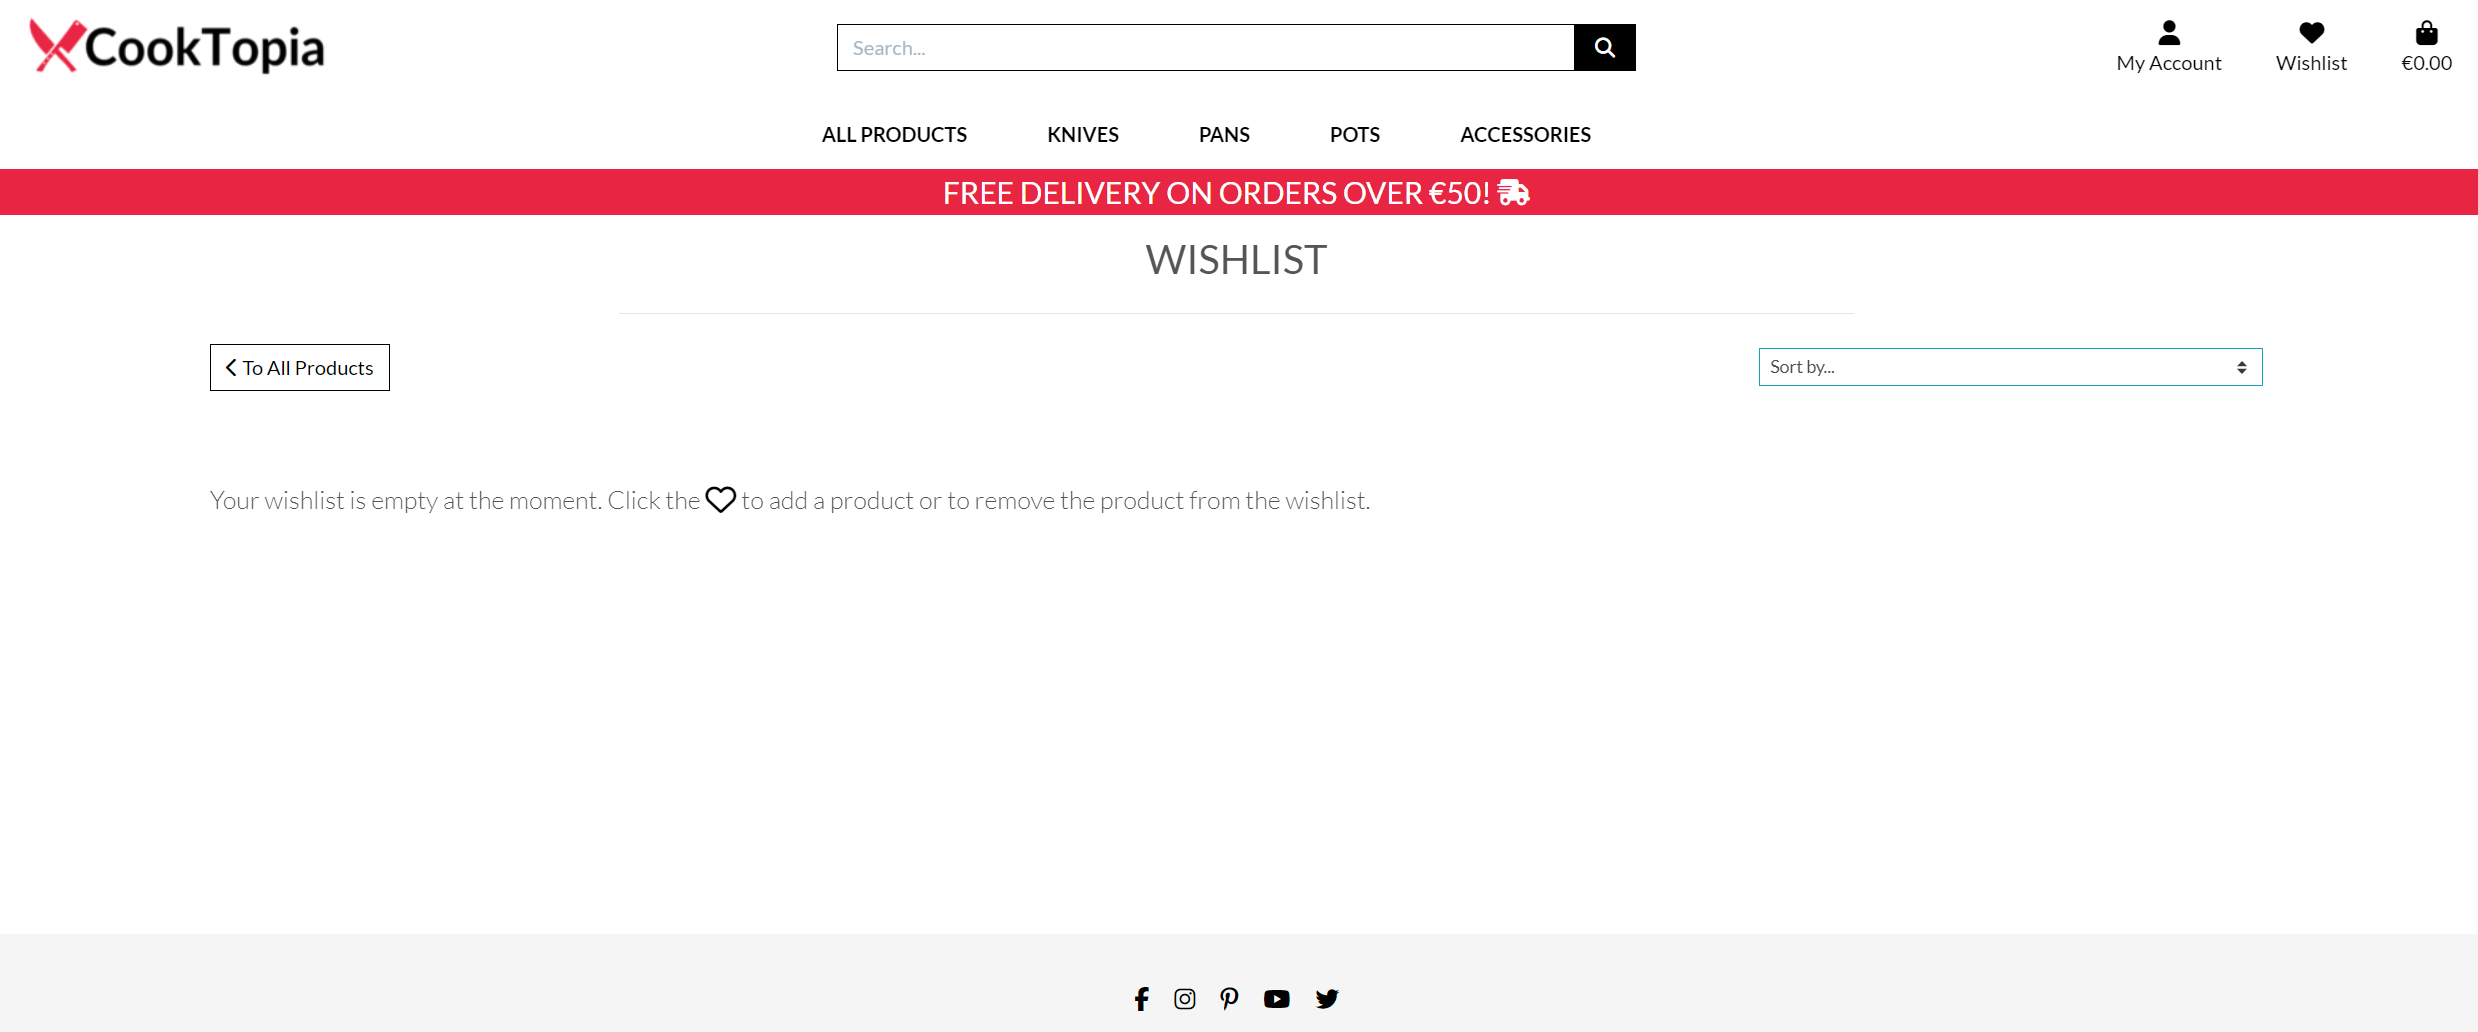
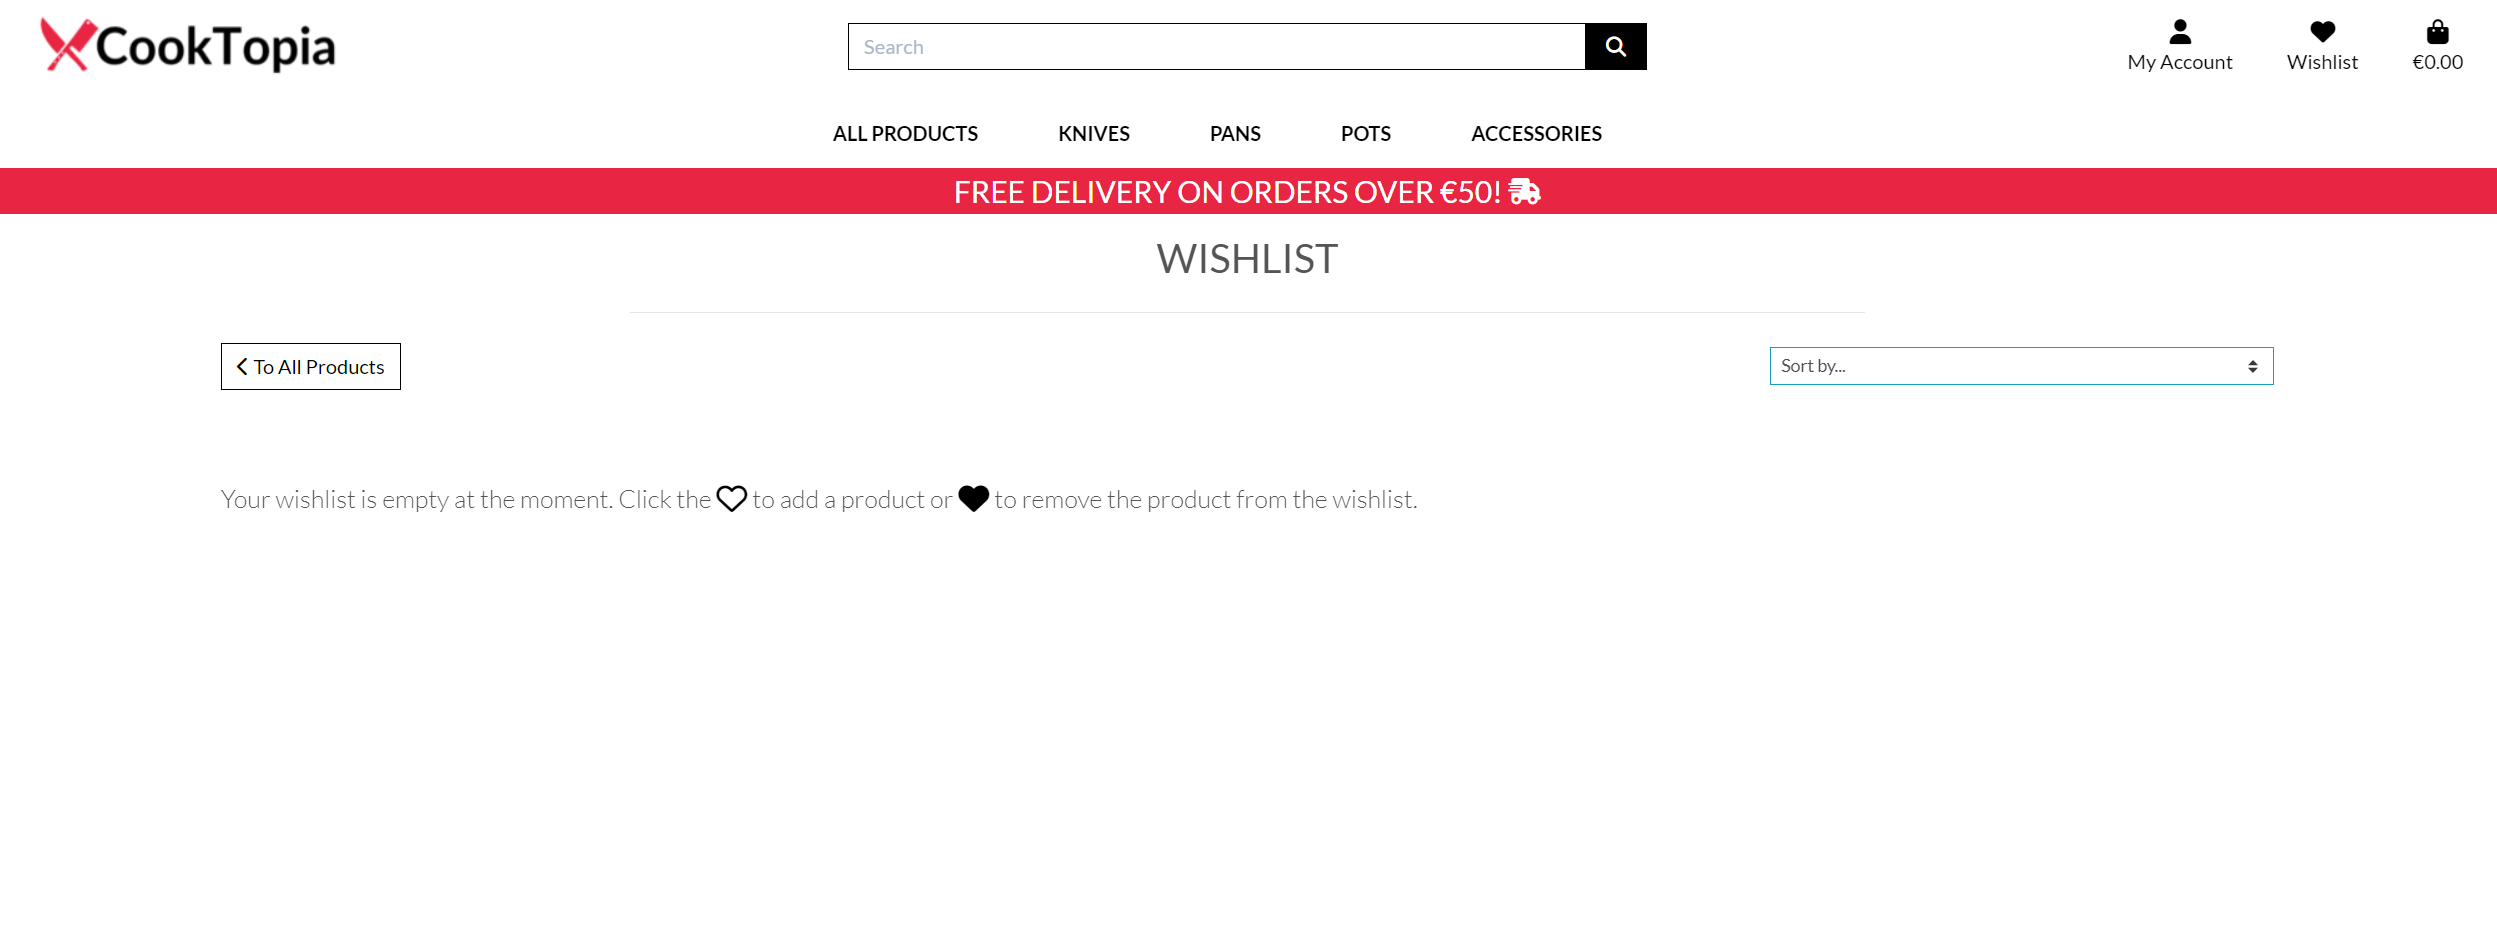
add content to fixed bugs section of readme file

diff --git a/static/css/base.css b/static/css/base.css
@@ -72,12 +72,12 @@ body {
 .btn-black:focus {
     background: gray;
     color: white;
-    transition:0.5s;
+    transition: 0.5s;
 }
 
 .btn-gray:hover {
-    color:gray !important;
-    transition:0.5s;
+    color: gray !important;
+    transition: 0.5s;
 }
 
 .text-black {
@@ -93,7 +93,7 @@ body {
 }
 
 .bag-state {
-    color: #28a745!important;
+    color: #28a745 !important;
 }
 
 .overlay {
@@ -106,7 +106,7 @@ body {
     z-index: -1;
 }
 
-a.category-badge > span.badge:hover {
+a.category-badge>span.badge:hover {
     background: #e82543 !important;
     color: #fff !important;
     transition: 0.5s;
@@ -195,8 +195,10 @@ input[name='q']::placeholder {
 /* Allauth form formatting */
 
 .allauth-form-inner-content p {
-    margin-top: 1.5rem; /* mt-4 */
-    color: #6c757d; /* text-secondary */
+    margin-top: 1.5rem;
+    /* mt-4 */
+    color: #6c757d;
+    /* text-secondary */
 }
 
 .allauth-form-inner-content input {
@@ -214,8 +216,8 @@ input[name='q']::placeholder {
 
 .allauth-form-inner-content button,
 .allauth-form-inner-content input[type='submit'] {
-	/* btn */
-	display: inline-block;
+    /* btn */
+    display: inline-block;
     font-weight: 400;
     color: #fff;
     text-align: center;
@@ -232,18 +234,19 @@ input[name='q']::placeholder {
     border-radius: 0;
 
     /* standard bootstrap btn transitions */
-    transition: color .15s ease-in-out,background-color .15s ease-in-out,border-color .15s ease-in-out,box-shadow .15s ease-in-out;
+    transition: color .15s ease-in-out, background-color .15s ease-in-out, border-color .15s ease-in-out, box-shadow .15s ease-in-out;
 }
 
 .allauth-form-inner-content button:hover,
-.allauth-form-inner-content input[type='submit']:hover {	
-	color: #fff;
+.allauth-form-inner-content input[type='submit']:hover {
+    color: #fff;
     background-color: #222;
     border-color: #222;
 }
 
 .allauth-form-inner-content a {
-	color: #17a2b8; /* text-info */
+    color: #17a2b8;
+    /* text-info */
 }
 
 
@@ -284,7 +287,7 @@ input[name='q']::placeholder {
     border-top: 1px solid black;
 }
 
-.no-underline:hover{
+.no-underline:hover {
     text-decoration: none;
 }
 
@@ -293,7 +296,7 @@ input[name='q']::placeholder {
     background: white;
     clear: left;
     font: 14px Lato, sans-serif;
-  }
+}
 
 /* No content footer fixing */
 .wishlist-container,
@@ -312,57 +315,58 @@ input[name='q']::placeholder {
 
 .footer {
     background: whitesmoke;
-    padding:10px 0px;
-    text-align:center;
+    padding: 10px 0px;
+    text-align: center;
     margin-top: auto;
 }
-    
-.footer .row{
-    width:100%;
-    margin:1% 0%;
-    padding:0.6% 0%;
-    color:black;
-    font-size:0.8em;
+
+.footer .row {
+    width: 100%;
+    margin: 1% 0%;
+    padding: 0.6% 0%;
+    color: black;
+    font-size: 0.8em;
     justify-content: center;
     gap: 20px;
 }
-    
-.footer .row a{
-    text-decoration:none;
-    color:black;
-    transition:0.5s;
+
+.footer .row a {
+    text-decoration: none;
+    color: black;
+    transition: 0.5s;
 }
-    
-.footer .row a:hover{
-    color:gray;
+
+.footer .row a:hover {
+    color: gray;
     text-decoration: underline;
 }
-    
-.footer .row ul{
-    width:100%;
+
+.footer .row ul {
+    width: 100%;
 }
-    
-.footer .row ul li{
-    display:inline-block;
-    margin:0px 30px;
+
+.footer .row ul li {
+    display: inline-block;
+    margin: 0px 30px;
 }
-    
-.footer .row a i{
-    font-size:1.5em;
-    margin:0% 1%;
+
+.footer .row a i {
+    font-size: 1.5em;
+    margin: 0% 1%;
 }
-    
+
 
 /* -------------------------------- Media Queries */
 
 /* Slightly larger container on xl screens */
 @media (min-width: 1200px) {
-  .container {
-    max-width: 80%;
-  }
+    .container {
+        max-width: 80%;
+    }
 }
 
 @media (min-width: 992px) {
+
     /* fixed top navbar only on medium and up */
     .fixed-top-desktop-only {
         position: fixed;
@@ -426,36 +430,40 @@ input[name='q']::placeholder {
         padding-right: 5px;
     }
 
-    .increment-qty, .decrement-qty {
+    .increment-qty,
+    .decrement-qty {
         padding: .25rem .5rem !important;
     }
 }
 
 
-@media (max-width:720px){
+@media (max-width:720px) {
+
     /* Keep Shoping and Secure Checkout buttons */
     .btn-keep {
         padding-right: 4px !important;
         padding-left: 0px !important;
     }
-    
+
     .btn-secure {
         padding-left: 4px !important;
         padding-right: 0px !important;
     }
 
     /* footer styles */
-    .footer{
-        text-align:left;
-        padding:5%;
+    .footer {
+        text-align: left;
+        padding: 5%;
     }
-    .footer .row ul li{
-        display:block;
-        margin:10px 0px;
-        text-align:left;
+
+    .footer .row ul li {
+        display: block;
+        margin: 10px 0px;
+        text-align: left;
     }
-    .footer .row a i{
-        margin:0% 3%;
+
+    .footer .row a i {
+        margin: 0% 3%;
     }
 }
 

diff --git a/README.md b/README.md
@@ -398,11 +398,11 @@ The custom models made for this project were:
 - Navbar is fully responsive. Here we can find:
   - Logo, which acts as a Home button
   - Search Bar
-  - My Account Icon
-  - Wishlist Icon
-  - Shopping Bag Icon, with total amount under it
+  - My Account, with Icon for bigger screens
+  - Wishlist, with Icon for bigger screens
+  - Shopping Bag Icon, with the total amount under it
   - Burger Icon on small and medium screens
-  - Home button for smaller and medium screens
+  - Home button for small and medium screens
 
 [Back to Top](#table-of-contents)
 
@@ -558,7 +558,6 @@ The custom models made for this project were:
   - Edit/Delte Buttons (only for admins)
   - Add To Bag button
   - Quantity Button
-  - Heart Icon, acting as add to wishlist button
 
 ![All Products Page Closed Up View](static/images/features/23-closeup-view-allproducts.png)
 
@@ -680,6 +679,8 @@ The custom models made for this project were:
 
 - The sales page could be used to introduce the discount possibilities.
 
+- Add wishlist button to the All Products Page to improve UX.
+
 [Back to Top](#table-of-contents)
 
 ### Business Model
@@ -758,7 +759,7 @@ The custom models made for this project were:
 
 #### Robots.txt
 
-- I created robots.txt file.
+- I created a robots.txt file within my root directory.
 
   <details>
   <summary>Robots.txt
@@ -837,10 +838,64 @@ The custom models made for this project were:
   | Brave       | ✔          | ✔             |
   | Edge        | ✔          | ✔             |
   |  Opera GX   | ✔          | ✔             |
+  |    Safari   | ✔          | ✔             |
+
+[Back to Top](#table-of-contents)
 
 ### Fixed Bugs
 
+ - #### Bug 1 - Shopping Bag Quantity Button
+   - Before fixing, users were able to press the "-" button even after 1(going to 0, -1, -2, and so on). The "+" button was disabled when the number hit 99, but users could enter numbers bigger than 99 by keyboard, so this needed fixing too, as the idea was to set 99 as the biggest possible amount to choose.
+
+ - #### Fix 1
+   <details>
+   <summary>Quantity Button Fix
+   </summary>
+
+   ![Quantity Button Fix](static/images/bugs/qty-button-fix.png)
+   </details>
+
+- #### Bug 2 - Server Error (500)
+  - In the case of non-authenticated user, when the user wanted to open a product_detail page, a 500 Server Error was prompted.
+    <details>
+    <summary>Server Error (500)
+    </summary>
+
+    ![Server Error 500](static/images/bugs/500-server-error.png)
+    </details>
+
+- #### Fix 2
+   <details>
+   <summary>Server Error (500) Fix
+   </summary>
+
+   ![500 Server Error Fix](static/images/bugs/500-server-error-fix.png)
+   </details>
+
+- #### Bug 3 - Footer
+  - In the case of a page with no or little content, the footer was jumping up.
+    <details>
+    <summary>Footer Bug
+    </summary>
+
+    ![Footer Bug](static/images/bugs/footer-bug.png)
+    </details>
+
+- #### Fix 3
+  - This issue was fixed by setting:
+    - min-height: 100vh;(body)
+    - flex-grow: 1;(main container on the page)
+    - margin-top: auto;(footer)
+
+    <details>
+    <summary>Footer Fix
+    </summary>
+
+    ![Footer Fix](static/images/bugs/footer-fix.png)
+    </details>
+
 ### Present Bugs
+ - There are no known bugs.
 
 ## Deployment
 
